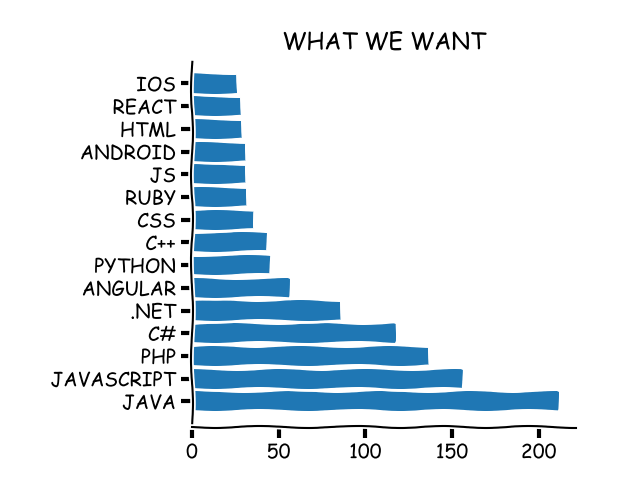
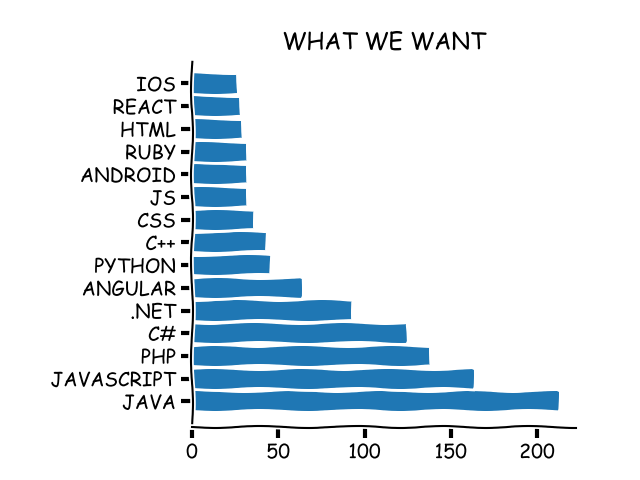
column as variable
column as variable,
output does only overwrite own column png
added git ignore for new values

diff --git a/0what/what.py b/0what/what.py
@@ -13,12 +13,15 @@ wsName='Attendees'
 wb = load_workbook(file)
 ws=wb[wsName]
 
-# read first 700 values from column 20 (languages) into list
+# 22 for languages, 31 for countries
+colVal=22
+
+# read first 700 values from column 22 (languages) into list
 # not very pythonic, but here you also see the stripping and uppercasing to
 # get through the masses of different ways to write Javascript
 interests=list()
 for i in range(2, 701):
-    cellval = str(ws.cell(row=i, column=20).value)
+    cellval = str(ws.cell(row=i, column=colVal).value)
     cellval = cellval.replace(' ','')
     cellval = cellval.upper()
 # and here I look at people filling in their languageS
@@ -26,7 +29,7 @@ for i in range(2, 701):
 
 #counting the languages while removing the duplicates
 lang2={x:interests.count(x) for x in interests}
-# Getting the Top 10
+# Getting the Top 10 or more
 lang = dict(sorted(lang2.items(), key=itemgetter(1), reverse=True)[:15])
 
 # let's print that - xkcd style
@@ -44,4 +47,4 @@ plt.rcParams.update({'figure.autolayout': True})
 plt.barh(range(len(lang)),list(lang.values()), align='center')
 plt.yticks(range(len(lang)), list(lang.keys()))
 # plt.show()
-fig.savefig('report.png')
+fig.savefig('report'+str(colVal)+'.png')
